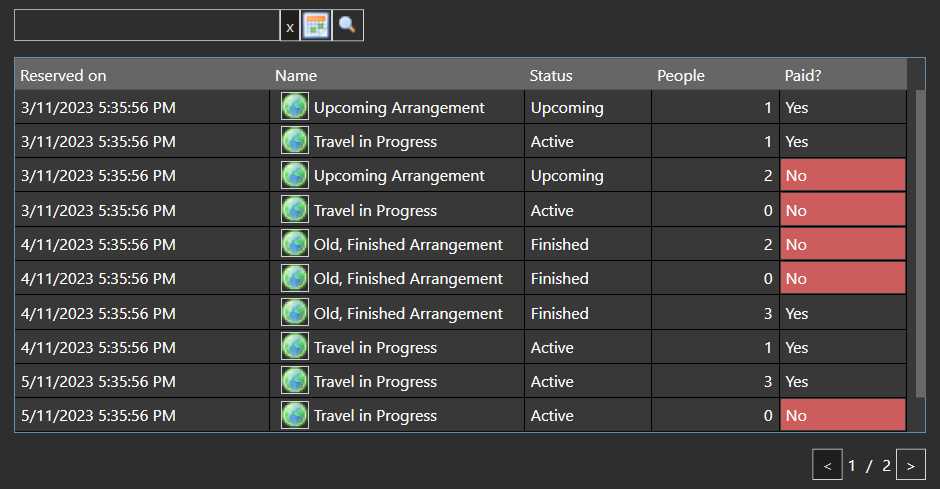
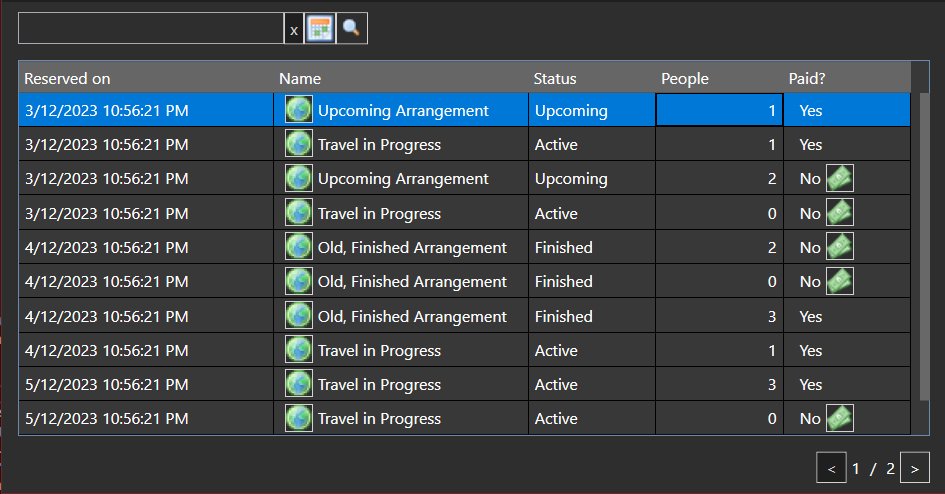
feat: Add help for remaining things

Changed region(s): [[0.0, 0.0, 1.0, 1.0]]

diff --git a/YouTravel/Help/arrangement_details.html b/YouTravel/Help/arrangement_details.html
@@ -1,0 +1,26 @@
+<!DOCTYPE HTML PUBLIC "-//W3C//DTD HTML 4.0 Transitional//EN">
+<html>
+<head>
+    <title>YouTravel Manual - Arrangement details</title>
+    <link rel="stylesheet" href="styles.css">
+</head>
+<body>
+    <h1>Arrangement details</h1>
+    <p>
+        On here you can view all information for a given arrangement as well as book a reservation.
+    </p>
+    <figure>
+        <img src="img_arrangement_details.png" max-width="100%" />
+        <figcaption>
+            Image 1. Arrangement details page.
+        </figcaption>
+    </figure>
+    <p>
+        You can see the duration, price as well as all the activites for the given arrangement.
+        <br/>
+        At the bottom of the page, you may book a reservation where you will be prompted to enter the number of people attending the travel.
+        <br/>
+        You can pay for the reservation at the <a href="travel_history.html">travel history</a> page.
+    </p>
+</body>
+</html>

diff --git a/YouTravel/View/ArrangementDetails.xaml b/YouTravel/View/ArrangementDetails.xaml
@@ -11,6 +11,7 @@
     d:DesignHeight="450"
     d:DesignWidth="800"
     Loaded="Page_Loaded"
+	u:HelpProvider.HelpKey="arrangement_details"
     mc:Ignorable="d">
     <Page.Resources>
         <BitmapImage x:Key="IcoDate" UriSource="../Res/IcoDate.png" />
@@ -34,6 +35,7 @@
             <RowDefinition Height="*" />
         </Grid.RowDefinitions>
         <Image
+			u:HelpProvider.HelpKey="arrangement_details"
             Grid.Row="0"
             Grid.Column="0"
             Width="200"
@@ -65,6 +67,7 @@
         </StackPanel>
 
         <ScrollViewer
+			u:HelpProvider.HelpKey="arrangement_details"
             Grid.Row="1"
             Grid.Column="0"
             MinHeight="100">
@@ -129,6 +132,8 @@
                 Height="32"
                 Margin="0,0,10,0"
                 Click="Book_Click"
+				u:HelpProvider.HelpKey="arrangement_details"
+				ToolTip="Book a reservation"
                 Content="Book" />
         </StackPanel>
     </Grid>

diff --git a/YouTravel/Help/travel_history.html b/YouTravel/Help/travel_history.html
@@ -27,7 +27,7 @@
         <li><b>Name</b>: Name of the reserved arrangement</li>
         <li><b>Status</b>: Status of the reserved arrangement (upcoming, active, finished)</li>
         <li><b>People</b>: Number of people on the reservation</li>
-        <li><b>Paid?</b>: Payment status of the reservation</li>
+        <li><b>Paid?</b>: Payment status of the reservation. If you did not pay for the arrangement yet, you can do it here.</li>
     </ul>
 </body>
 </html>
